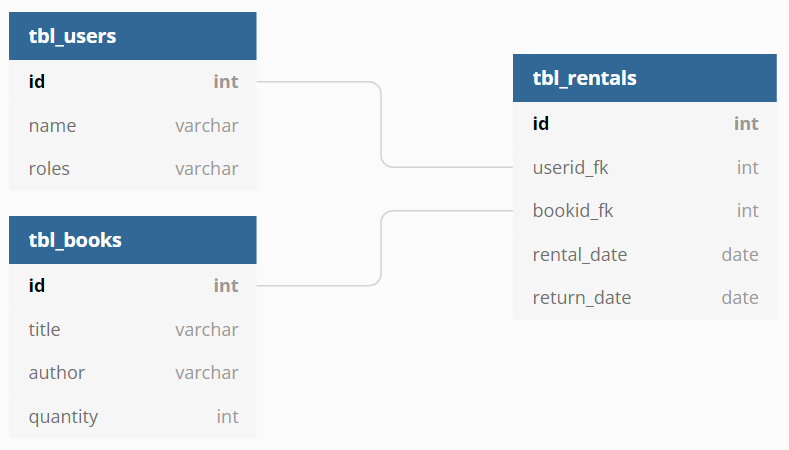
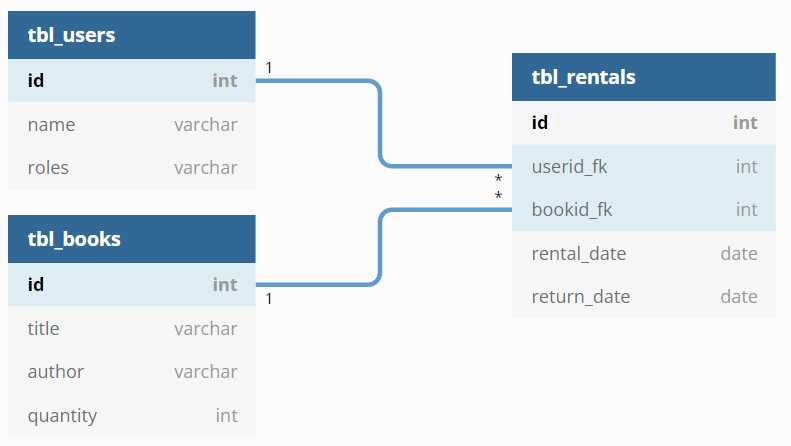
README.md updates & docs

diff --git a/README.md b/README.md
@@ -1,46 +1,42 @@
-# ZTP - Aplikacja REST oparta o wzorzec Monolitu 
+# L03: Zaawansowane techniki programowania
+
+Celem zadania będzie przygotowanie monolitycznej aplikacji udostępniającej prosty interfejs REST w oparciu Spring Boot i język Java.
 
 ## Przygotowanie
 
-Przed zajęciami proszę o zapoznanie się z załączonymi materiałami oraz o zainstalowanie niezbędnego oprogramowania, które będzie wykorzystywane na tych i kolejnych zajęciach.
+Przed zajęciami proszę o zapoznanie się z [załączonymi materiałami](docs/introduction.md) oraz o zainstalowanie niezbędnego oprogramowania, które będzie wykorzystywane na tych i kolejnych zajęciach.
+W przypadku braku znajomości języka SQL polecam zapoznanie się z [dodatkowymi materiałami pomocniczymi](docs/sql_cheetsheet.md) wymaganymi do realizacji komunikacji z bazą danych.
 
-### Proszę o zapoznanie się z następującymi materiałami:
+## Wymagania dotyczące aplikacji
 
-1. [API](https://pl.wikipedia.org/wiki/Interfejs_programowania_aplikacji)
-1. [REST](https://www.ics.uci.edu/~fielding/pubs/dissertation/rest_arch_style.htm)
-1. [REST API Tutorial](https://restfulapi.net/)
-1. [HTTP Methods](https://developer.mozilla.org/en-US/docs/Web/HTTP/Methods)
-1. [HTTP Response Status Codes](https://developer.mozilla.org/en-US/docs/Web/HTTP/Status)
-1. [JSON](http://www.json.org/json-pl.html)
-1. [Jackson Docs](https://github.com/FasterXML/jackson-annotations)
-1. [Spring Boot - Getting Started](https://spring.io/projects/spring-boot)
-1. [Spring Core](https://docs.spring.io/spring-framework/docs/current/reference/html/core.html)
-1. [Spring Boot Maven Plugin Reference Guide](https://docs.spring.io/spring-boot/docs/2.5.5/maven-plugin/reference/html/)
-1. [Spring Web](https://docs.spring.io/spring-boot/docs/2.5.5/reference/htmlsingle/#boot-features-developing-web-applications)
-1. [JDBC API](https://docs.spring.io/spring-boot/docs/2.5.5/reference/htmlsingle/#boot-features-sql)
-1. [H2 database](https://www.h2database.com/html/tutorial.html)
-1. [Flyway migrations](https://flywaydb.org/documentation/)
-1. [Flyway Migration](https://docs.spring.io/spring-boot/docs/2.5.5/reference/htmlsingle/#howto-execute-flyway-database-migrations-on-startup)
-1. [The Repository Pattern Explained](https://blog.sapiensworks.com/post/2014/06/02/The-Repository-Pattern-For-Dummies.aspx)
+1. Dostęp do aplikacji nie powinien wymagać autoryzacji, a po uruchomieniu aplikacji wszystkie zasoby powinny być dostępne pod adresem [http://localhost:8080](http://localhost:8080)
+1. Zasoby i funkcjonalność powinny być udostępniane przez REST API zgodne z dokumentacją zawartą w [docs/library-rest-service.yaml](docs/library-rest-service.yaml)
+1. Aplikacja powinna wykorzystywać wbudowaną w aplikację bazę danych H2 do przechowywania stanu systemu
 
-### Materiały, które mogą być pomocne podczas rozwiązywania zadania
-1. [Building a RESTful Web Service](https://spring.io/guides/gs/rest-service/)
-1. [Building REST services with Spring](https://spring.io/guides/tutorials/bookmarks/)
-1. [REST error handling with Spring](https://www.baeldung.com/exception-handling-for-rest-with-spring)
-1. [Jackson Annotations](https://www.baeldung.com/jackson-annotations)
-1. [Accessing Relational Data using JDBC with Spring](https://spring.io/guides/gs/relational-data-access/)
-1. [Spring JDBC tutorial](https://www.baeldung.com/spring-jdbc-jdbctemplate)
-1. [Official Apache Maven documentation](https://maven.apache.org/guides/index.html)
-1. [IDEA Maven support](https://www.jetbrains.com/help/idea/maven-support.html)
-1. [How to use Swagger UI](https://idratherbewriting.com/learnapidoc/pubapis_swagger.html)
-1. [Introduction to Postman](https://learning.postman.com/docs/getting-started/introduction/)   
-1. [Git cheat sheet](https://training.github.com/downloads/pl/github-git-cheat-sheet)
+## Kryterium oceny rozwiązania
 
-###  Przed zajęciami proszę o zainstalowanie:
-* [Java Development Kit (JDK) w wersji 11, dystrybucja OpenJDK](https://openjdk.java.net/install/)
-  * [Szczegłówa instrukcja instalacji OpenJDK na systemach MS Windows, na przykładzie OpenJDK 8](https://techoral.com/blog/java/openjdk-install-windows.html)
-* [Gita, najnowsza dostępna wersja](https://git-scm.com/book/en/v2/Getting-Started-Installing-Git)
-  * oraz jego wstępną konfigurację Gita zgodnie z [instrukcją](https://git-scm.com/book/pl/v2/Pierwsze-kroki-Wst%C4%99pna-konfiguracja-Git).
-* [IntelliJ IDEA Community lub IntelliJ IDEA Ultimate (w przypadku posiadania licencji)](https://www.jetbrains.com/idea/download/)
-* [Postman (wersja stacjonarna lub internetowa)](https://www.postman.com/downloads/)
+Za poprawne rozwiązania zadania można otrzymać 5 punktów.
 
+1. Zgodność oraz poprawność implementacji funkcjonalności opisanej w ramach REST API
+> Aplikacja powinna umożliwiać:
+> * pobranie listy użytkowników, usuwanie oraz dodawanie nowych użytkowników,
+> * pobranie listy dostępnych książek,
+> * pobranie listy książek wypożyczonych przez wybranego użytkownika
+> * wypożyczenie oraz zwrot książki przez użytkownika
+>
+> Proszę zwrócić szczególną uwagę na trzymanie się formatu danych (JSON) oraz obsługi błędów zdefiniowanych w ramach dokumentacji REST API.
+> Dodatkowa funkcjonalność nie wymagana w ramach zadania nie będzie wypływała na ocenę końca przyznaną za zadanie.
+
+2. Sprawozdanie z laboratorium
+> Dołączenie sprawozdania do zrealizowanego zdania jest warunkiem koniecznym do uzyskania pozytywnej oceny z laboratorium. Zadania bez sprawozdania lub ze sprawozdaniem zawierającym znaczące braki merytoryczne nie będą podlegały ocenie.
+>
+> Sprawozdanie powinno zostać zamieszczone w katalogu [docs](docs) i dodane do repozytorium w oddzielnym commicie pod tytułem "Sprawozdanie".
+
+3. Termin dostarczenia rozwiązania
+> Bezpośrednio po zajęciach w repozytorium powinny znaleźć się wynik prac zakończonych w trakcie laboratorium.
+>
+> Ostatecznym terminem na wysłanie rozwiązania zadania wraz ze sprawozdaniem jest **14.11.2021 23:59** (decyduje data ostatniego commitu).
+>
+> Ocena za zadania dostarczone po tym terminie będzie automatycznie obniżana o 1 punkt, natomiast zadania nadesłane po **21.11.2021 23:59** nie będą podlegały ocenie.
+
+## Zadania do wykonania w ramach laboratorium 

diff --git a/docs/introduction.md b/docs/introduction.md
@@ -1,0 +1,46 @@
+# ZTP - Aplikacja REST oparta o wzorzec Monolitu 
+
+## Przygotowanie
+
+Przed zajęciami proszę o zapoznanie się z załączonymi materiałami oraz o zainstalowanie niezbędnego oprogramowania, które będzie wykorzystywane na tych i kolejnych zajęciach.
+
+### Proszę o zapoznanie się z następującymi materiałami:
+
+1. [API](https://pl.wikipedia.org/wiki/Interfejs_programowania_aplikacji)
+1. [REST](https://www.ics.uci.edu/~fielding/pubs/dissertation/rest_arch_style.htm)
+1. [REST API Tutorial](https://restfulapi.net/)
+1. [HTTP Methods](https://developer.mozilla.org/en-US/docs/Web/HTTP/Methods)
+1. [HTTP Response Status Codes](https://developer.mozilla.org/en-US/docs/Web/HTTP/Status)
+1. [JSON](http://www.json.org/json-pl.html)
+1. [Jackson Docs](https://github.com/FasterXML/jackson-annotations)
+1. [Spring Boot - Getting Started](https://spring.io/projects/spring-boot)
+1. [Spring Core](https://docs.spring.io/spring-framework/docs/current/reference/html/core.html)
+1. [Spring Boot Maven Plugin Reference Guide](https://docs.spring.io/spring-boot/docs/2.5.5/maven-plugin/reference/html/)
+1. [Spring Web](https://docs.spring.io/spring-boot/docs/2.5.5/reference/htmlsingle/#boot-features-developing-web-applications)
+1. [JDBC API](https://docs.spring.io/spring-boot/docs/2.5.5/reference/htmlsingle/#boot-features-sql)
+1. [H2 database](https://www.h2database.com/html/tutorial.html)
+1. [Flyway migrations](https://flywaydb.org/documentation/)
+1. [Flyway Migration](https://docs.spring.io/spring-boot/docs/2.5.5/reference/htmlsingle/#howto-execute-flyway-database-migrations-on-startup)
+1. [The Repository Pattern Explained](https://blog.sapiensworks.com/post/2014/06/02/The-Repository-Pattern-For-Dummies.aspx)
+
+### Materiały, które mogą być pomocne podczas rozwiązywania zadania
+1. [Building a RESTful Web Service](https://spring.io/guides/gs/rest-service/)
+1. [Building REST services with Spring](https://spring.io/guides/tutorials/bookmarks/)
+1. [REST error handling with Spring](https://www.baeldung.com/exception-handling-for-rest-with-spring)
+1. [Jackson Annotations](https://www.baeldung.com/jackson-annotations)
+1. [Accessing Relational Data using JDBC with Spring](https://spring.io/guides/gs/relational-data-access/)
+1. [Spring JDBC tutorial](https://www.baeldung.com/spring-jdbc-jdbctemplate)
+1. [Official Apache Maven documentation](https://maven.apache.org/guides/index.html)
+1. [IDEA Maven support](https://www.jetbrains.com/help/idea/maven-support.html)
+1. [How to use Swagger UI](https://idratherbewriting.com/learnapidoc/pubapis_swagger.html)
+1. [Introduction to Postman](https://learning.postman.com/docs/getting-started/introduction/)   
+1. [Git cheat sheet](https://training.github.com/downloads/pl/github-git-cheat-sheet)
+
+###  Przed zajęciami proszę o zainstalowanie:
+* [Java Development Kit (JDK) w wersji 11, dystrybucja OpenJDK](https://openjdk.java.net/install/)
+  * [Szczegłówa instrukcja instalacji OpenJDK na systemach MS Windows, na przykładzie OpenJDK 8](https://techoral.com/blog/java/openjdk-install-windows.html)
+* [Gita, najnowsza dostępna wersja](https://git-scm.com/book/en/v2/Getting-Started-Installing-Git)
+  * oraz jego wstępną konfigurację Gita zgodnie z [instrukcją](https://git-scm.com/book/pl/v2/Pierwsze-kroki-Wst%C4%99pna-konfiguracja-Git).
+* [IntelliJ IDEA Community lub IntelliJ IDEA Ultimate (w przypadku posiadania licencji)](https://www.jetbrains.com/idea/download/)
+* [Postman (wersja stacjonarna lub internetowa)](https://www.postman.com/downloads/)
+

diff --git a/docs/sql_cheetsheet.md b/docs/sql_cheetsheet.md
@@ -1,4 +1,14 @@
 # Lista przydanych zapytań w języku SQL
+
+## Dostęp do konsoli bazy danych H2
+* [http://localhost:8080/h2-console](http://localhost:8080/h2-console)
+  
+![Schemat bazy danych](h2-console-login.png)
+
+## Schemat bazy danych
+
+![Schemat bazy danych](db_diagram.png)
+
 ## Operacje na tabeli użytkowników
 * Pobranie listy wszystkich użytkowników
 ```sql 
